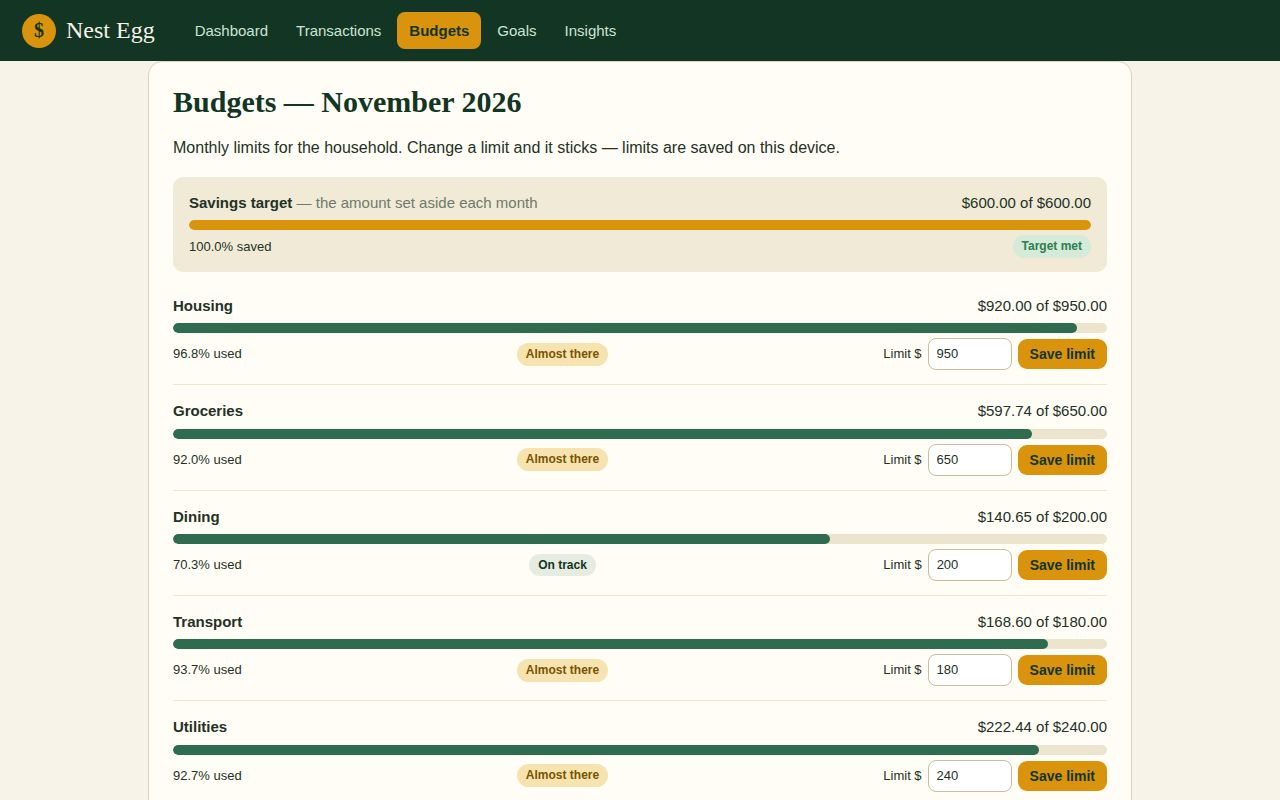
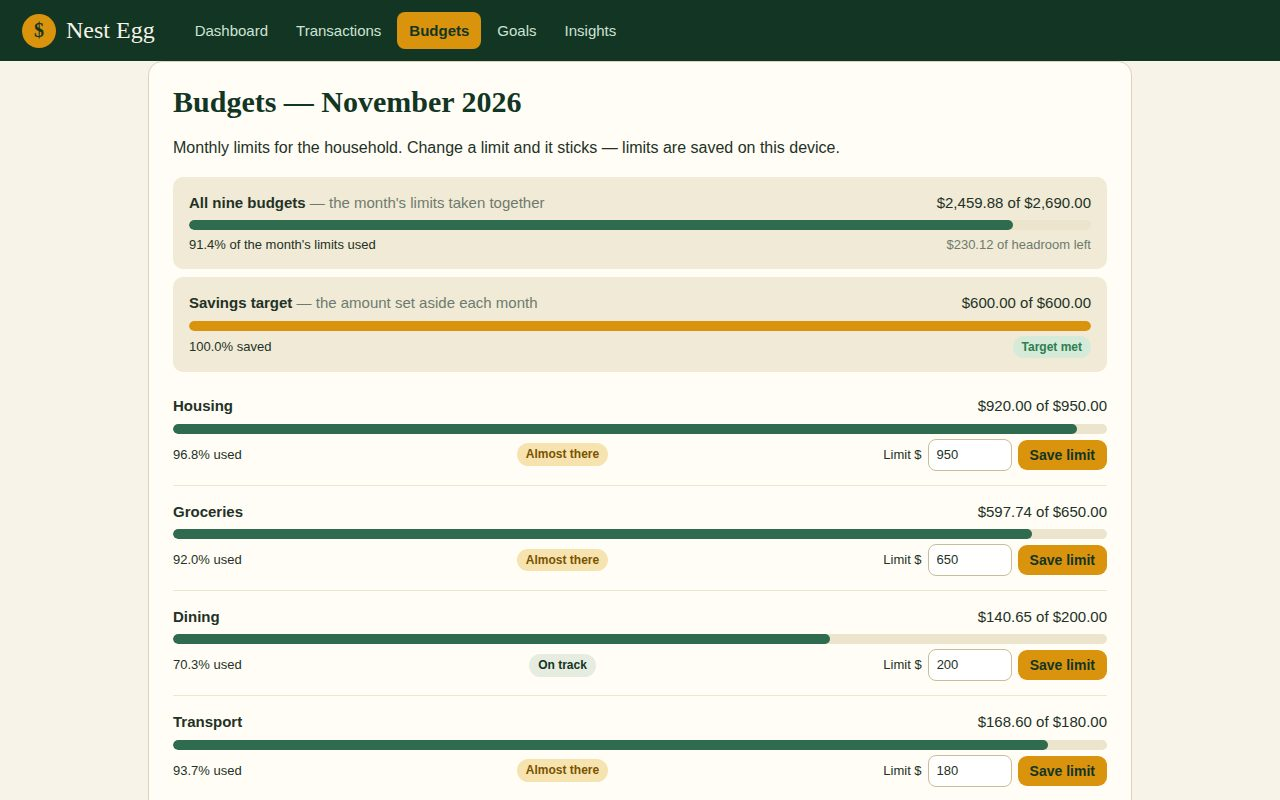
Nest Egg polish — month pace, weekly chart, goal finish dates
- Dashboard: month-pace strip (days left, safe-to-spend per day,
  flexible-spending pace vs plan, rent excluded so it never cries wolf)
  with a red/green cue when ahead of or behind pace
- Insights: weekly spending chart (Nov 1-7 / 8-14 / 15-21 / 22-30)
  with a data-driven caption; fixed monthBars viewBox clipping the
  '% vs October' sub-labels (240 -> 262)
- Goals: projected finish date per goal from its actual monthly
  saving pace (May 2027 / Jun 2027 / Nov 2027 on the demo data)
- Budgets: all-nine-budgets summary card (,459.88 of ,690.00)
- Fresh screenshots, 19/19 Playwright checks, main.ts byte-identical

Changed region(s): [[0.125, 0.5, 0.875, 1.0], [0.125, 0.25, 0.875, 0.4688]]

diff --git a/app/pages.js b/app/pages.js
@@ -44,6 +44,14 @@ function pageDashboard(state) {
   const recent = [...state.transactions]
     .sort((a, b) => (b.date + b.id).localeCompare(a.date + a.id)).slice(0, 5);
   const kindWord = { income: "Income", spending: "Spent", saving: "Saved" };
+  const pace = monthPace(state);
+  const paceWord = Math.abs(pace.pacePct) < 0.5 ? "right on pace"
+    : pace.pacePct > 0 ? `${pace.pacePct.toFixed(1)}% ahead of pace`
+    : `${Math.abs(pace.pacePct).toFixed(1)}% behind pace`;
+  const paceTone = pace.pacePct > 0.5 ? "pace-bad"
+    : pace.pacePct < -0.5 ? "pace-good" : "";
+  const daysWord = pace.daysLeft === 0 ? "November ends today"
+    : `${pace.daysLeft} day${pace.daysLeft === 1 ? "" : "s"} left in November`;
 
   return `
   <section class="hero">
@@ -51,6 +59,11 @@ function pageDashboard(state) {
     <h1>Left to spend <span id="hero-remaining">${money(totals.remaining)}</span></h1>
     <p class="hero-sub">Income ${money(totals.income)} − spending ${money(totals.spending)} − savings ${money(totals.saving)} — ${esc(heroNote)}</p>
     <p><a class="btn" href="#/transactions">Add a transaction</a> <a class="btn ghost" href="#/insights">See November in full</a></p>
+  </section>
+  <section class="pace" aria-label="How the month is pacing">
+    <div><span class="pace-label">Month</span><strong id="pace-days">${daysWord}</strong><span class="muted">Day ${pace.day} of ${pace.daysInMonth} · November 2026</span></div>
+    <div><span class="pace-label">Safe to spend</span><strong id="pace-safe">${money(pace.safePerDay)} a day</strong><span class="muted">from ${money(pace.remaining)} left</span></div>
+    <div><span class="pace-label">Pace</span><strong id="pace-word" class="${paceTone}">${paceWord}</strong><span class="muted">${money(pace.expected)} flexible spending expected by now — rent excluded</span></div>
   </section>
   <section class="cards">
     <div class="stat"><span class="stat-label">Income</span><strong id="stat-income">${money(totals.income)}</strong><span class="muted">5 paydays and extras</span></div>
@@ -168,10 +181,18 @@ function pageBudgets(state) {
   const rows = spendByCategory(state.transactions);
   const spentOf = (cat) => rows.find((r) => r.category === cat)?.cents || 0;
   const saved = sumKinds(state.transactions).saving;
+  const totalLimit = NEST_SEED.spendCategories
+    .reduce((sum, cat) => sum + (state.limits[cat] || 0), 0);
+  const totalSpent = rows.reduce((sum, r) => sum + r.cents, 0);
   return `
   <section class="panel">
     <h1>Budgets — ${esc(NEST_SEED.monthLabel)}</h1>
     <p>Monthly limits for the household. Change a limit and it sticks — limits are saved on this device.</p>
+    <div class="save-card">
+      <div class="snap-head"><span><b>All nine budgets</b> <span class="muted">— the month's limits taken together</span></span><span id="budgets-total">${money(totalSpent)} of ${money(totalLimit)}</span></div>
+      ${progressBar(100 * totalSpent / totalLimit, totalSpent > totalLimit ? "over" : "")}
+      <div class="snap-foot"><span>${pctOf(totalSpent, totalLimit)} of the month's limits used</span><span class="muted">${money(Math.max(0, totalLimit - totalSpent))} of headroom left</span></div>
+    </div>
     <div class="save-card">
       <div class="snap-head"><span><b>Savings target</b> <span class="muted">— the amount set aside each month</span></span><span>${money(saved)} of ${money(NEST_SEED.savingsTarget)}</span></div>
       ${progressBar(100 * saved / NEST_SEED.savingsTarget, "goal")}
@@ -199,16 +220,22 @@ function pageGoals(state) {
   <section class="panel">
     <h1>Savings goals</h1>
     <p>Every dollar has a job. Add funds to a goal and the ledger records it as a saving transaction automatically.</p>
-    ${state.goals.map((g) => `
+    ${state.goals.map((g) => {
+      const proj = goalProjection(g, state);
+      const projLine = proj.monthsLeft === 0 ? "Target reached — well done."
+        : proj.monthsLeft === null ? "Add funds to start the countdown."
+        : `About ${proj.monthsLeft} month${proj.monthsLeft === 1 ? "" : "s"} to go at the current pace (${money(proj.pace)} a month) — around ${proj.finishLabel}.`;
+      return `
       <div class="goal-card">
         <div class="snap-head"><span><b>${esc(g.name)}</b>${g.note ? ` <span class="muted">— ${esc(g.note)}</span>` : ""}</span><span id="goal-amt-${esc(g.id)}">${money(g.saved)} of ${money(g.target)}</span></div>
         ${progressBar(100 * g.saved / g.target, "goal")}
         <div class="snap-foot"><span>${pctOf(g.saved, g.target)} saved</span><span class="muted">${money(Math.max(0, g.target - g.saved))} to go</span></div>
+        <div class="goal-proj" id="goal-proj-${esc(g.id)}">${projLine}</div>
         <div class="fund-row">
           <label>Add funds ($) <input id="fund-${esc(g.id)}" type="number" min="1" step="1" placeholder="50"></label>
           <button class="btn small fund-add" data-goal="${esc(g.id)}">Add to ${esc(g.name)}</button>
         </div>
-      </div>`).join("")}
+      </div>`;}).join("")}
   </section>
   <section class="panel">
     <h2>Start a new goal</h2>
@@ -229,6 +256,11 @@ function pageInsights(state) {
   const rows = spendByCategory(state.transactions);
   const oct = NEST_SEED.october;
   const top = rows[0] || { category: "—", cents: 0 };
+  const weeks = weeklySpending(state.transactions);
+  const biggestWeek = weeks.reduce((a, b) => (b.cents > a.cents ? b : a), weeks[0]);
+  const weekNote = biggestWeek.label === "Nov 1–7"
+    ? `The biggest week was ${esc(biggestWeek.label)} at ${money(biggestWeek.cents)} — rent lands on the 1st, so the first week always runs hot. The other three weeks averaged ${money(Math.round((totals.spending - weeks[0].cents) / 3))} each.`
+    : `The biggest week was ${esc(biggestWeek.label)} at ${money(biggestWeek.cents)} — the other weeks averaged ${money(Math.round((totals.spending - biggestWeek.cents) / 3))} each.`;
   const over = NEST_SEED.spendCategories
     .map((cat) => ({ cat, spent: rows.find((r) => r.category === cat)?.cents || 0, limit: state.limits[cat] || 0 }))
     .filter((b) => b.spent > b.limit);
@@ -246,6 +278,11 @@ function pageInsights(state) {
     <h1>Insights — November vs October</h1>
     ${monthBars(totals, oct)}
     <p class="muted">Income ${changeLabel(totals.income, oct.income)} · spending ${changeLabel(totals.spending, oct.spending)} · savings ${changeLabel(totals.saving, oct.saving)} against October (${money(oct.income)} / ${money(oct.spending)} / ${money(oct.saving)}).</p>
+  </section>
+  <section class="panel">
+    <h2>Spending by week</h2>
+    ${weekBars(weeks)}
+    <p class="muted">${weekNote}</p>
   </section>
   <div class="two-col">
     <section class="panel">

diff --git a/app/money.js b/app/money.js
@@ -98,6 +98,102 @@ function nextTxId(state) {
   return "t" + String(n + 1).padStart(2, "0");
 }
 
+/* ---- Month pace, weekly spending and goal projections ---- */
+
+/* Days in a month, e.g. 30 for November 2026. */
+function daysInMonth(year, month) {
+  return new Date(year, month, 0).getDate();
+}
+
+/* The demo "today": the newest transaction date, clamped inside the
+   seed month so the figures always describe November 2026 — even after
+   the household adds a transaction dated in December, the pace strip
+   keeps answering for the month the ledger is about. */
+function demoToday(state) {
+  const parts = NEST_SEED.month.split("-").map(Number);
+  const year = parts[0];
+  const month = parts[1];
+  const last = daysInMonth(year, month);
+  let latest = 1;
+  for (const tx of state.transactions) {
+    const day = parseInt((tx.date || "").slice(8, 10), 10);
+    if (Number.isFinite(day)) latest = Math.max(latest, day);
+  }
+  const day = Math.min(Math.max(latest, 1), last);
+  return { year, month, day, daysInMonth: last, daysLeft: last - day };
+}
+
+/* How November is pacing: what is safe to spend each remaining day,
+   and whether the flexible spending is ahead of or behind the plan
+   for this point in the month. Categories whose money lands as one
+   lump at the start of the month (rent, on the 1st) are left out of
+   the pace comparison: judging them against an evenly-spread plan
+   would always cry wolf in week one. */
+const PACE_FIXED = ["Housing"];
+
+function monthPace(state) {
+  const totals = sumKinds(state.transactions);
+  const today = demoToday(state);
+  const flexCats = NEST_SEED.spendCategories.filter((c) => !PACE_FIXED.includes(c));
+  const flexLimit = flexCats
+    .reduce((sum, cat) => sum + (state.limits[cat] || 0), 0);
+  const flexSpent = state.transactions
+    .filter((tx) => tx.kind === "spending" && flexCats.includes(tx.category))
+    .reduce((sum, tx) => sum + tx.cents, 0);
+  const safePerDay = today.daysLeft > 0
+    ? Math.floor(totals.remaining / today.daysLeft)
+    : totals.remaining;
+  const expected = Math.round(flexLimit * today.day / today.daysInMonth);
+  const pacePct = expected > 0
+    ? 100 * (flexSpent - expected) / expected
+    : 0;
+  return {
+    day: today.day,
+    daysInMonth: today.daysInMonth,
+    daysLeft: today.daysLeft,
+    remaining: totals.remaining,
+    flexLimit,
+    flexSpent,
+    safePerDay,
+    expected,
+    pacePct,
+  };
+}
+
+/* Spending grouped by week of the month: Nov 1–7, 8–14, 15–21, 22–30. */
+function weeklySpending(list) {
+  const weeks = [
+    { label: "Nov 1–7", from: 1, to: 7, cents: 0 },
+    { label: "Nov 8–14", from: 8, to: 14, cents: 0 },
+    { label: "Nov 15–21", from: 15, to: 21, cents: 0 },
+    { label: "Nov 22–30", from: 22, to: 31, cents: 0 },
+  ];
+  for (const tx of list) {
+    if (tx.kind !== "spending") continue;
+    const day = parseInt((tx.date || "").slice(8, 10), 10);
+    const week = weeks.find((w) => day >= w.from && day <= w.to);
+    if (week) week.cents += tx.cents;
+  }
+  return weeks;
+}
+
+/* When a goal finishes at its current saving pace: the pace is what
+   the household actually put into that goal this month, so the date
+   moves when the household saves more — or stalls when it stops. */
+function goalProjection(goal, state) {
+  const pace = state.transactions
+    .filter((tx) => tx.kind === "saving" && tx.category === goal.name)
+    .reduce((sum, tx) => sum + tx.cents, 0);
+  const left = Math.max(0, goal.target - goal.saved);
+  if (left === 0) return { pace, monthsLeft: 0, finishLabel: "Target reached" };
+  if (pace <= 0) return { pace, monthsLeft: null, finishLabel: "" };
+  const monthsLeft = Math.ceil(left / pace);
+  const parts = NEST_SEED.month.split("-").map(Number);
+  const finish = new Date(parts[0], parts[1] - 1 + monthsLeft, 1);
+  const finishLabel = finish.toLocaleDateString("en-US", { month: "short", year: "numeric" });
+  return { pace, monthsLeft, finishLabel };
+}
+
 /* Add a transaction. A saving entry whose category names a goal also
    tops that goal up, so the goals page and the ledger always agree. */
 function addTransaction(state, tx) {

diff --git a/app/draw.js b/app/draw.js
@@ -44,7 +44,9 @@ function donutChart(rows, total) {
     `<ul class="legend">${legend}</ul></div>`;
 }
 
-/* Grouped bars comparing November with October for three measures. */
+/* Grouped bars comparing November with October for three measures.
+   The viewBox is taller than the drawing so the "% vs October" line
+   under each group is never clipped — it sits at y 242. */
 function monthBars(nov, oct) {
   const groups = [
     { label: "Income", now: nov.income, before: oct.income },
@@ -52,7 +54,7 @@ function monthBars(nov, oct) {
     { label: "Savings", now: nov.saving, before: oct.saving },
   ];
   const top = Math.max(...groups.flatMap((g) => [g.now, g.before]));
-  const W = 560, H = 240, base = 200, gap = 46;
+  const W = 560, H = 262, base = 200, gap = 46;
   const slot = (W - gap) / 3;
   const barW = 52;
   let bars = "";
@@ -70,4 +72,24 @@ function monthBars(nov, oct) {
   return `<svg viewBox="0 0 ${W} ${H}" class="bars" role="img" aria-label="November compared with October">` +
     `<line x1="0" y1="${base}" x2="${W}" y2="${base}" stroke="#d8cfb6" />${bars}${labels}</svg>` +
     `<p class="chart-key"><span class="key-dot now"></span> November &nbsp; <span class="key-dot before"></span> October</p>`;
+}
+
+/* Vertical bars for the four weeks of November, in the same visual
+   language as monthBars: pine bars, the amount on top, the week below. */
+function weekBars(weeks) {
+  const top = Math.max(...weeks.map((w) => w.cents), 1);
+  const W = 560, H = 230, base = 180, gap = 40;
+  const slot = (W - gap) / 4;
+  const barW = 64;
+  let bars = "";
+  let labels = "";
+  weeks.forEach((w, i) => {
+    const x0 = gap / 2 + i * slot;
+    const h = Math.max(Math.round(140 * w.cents / top), 2);
+    bars += `<rect x="${x0}" y="${base - h}" width="${barW}" height="${h}" rx="4" fill="#1e4d3a" />` +
+      `<text x="${x0 + barW / 2}" y="${base - h - 8}" text-anchor="middle" class="bar-val">${money(w.cents)}</text>`;
+    labels += `<text x="${x0 + barW / 2}" y="${base + 22}" text-anchor="middle" class="bar-lab">${w.label}</text>`;
+  });
+  return `<svg viewBox="0 0 ${W} ${H}" class="bars" role="img" aria-label="Spending by week in November">` +
+    `<line x1="0" y1="${base}" x2="${W}" y2="${base}" stroke="#d8cfb6" />${bars}${labels}</svg>`;
 }

diff --git a/app/style.css b/app/style.css
@@ -102,6 +102,29 @@ h2 { font-size: 22px; }
 .btn.small { padding: 7px 12px; font-size: 14px; }
 .btn.danger { background: var(--red); color: #fff; }
 
+/* Month pace strip */
+.pace {
+  display: grid;
+  grid-template-columns: repeat(3, 1fr);
+  gap: 14px;
+  margin-bottom: 22px;
+}
+.pace > div {
+  background: var(--card);
+  border: 1px solid var(--line);
+  border-top: 3px solid var(--amber);
+  border-radius: 12px;
+  padding: 14px 18px;
+}
+.pace-label { display: block; font-size: 12px; text-transform: uppercase; letter-spacing: 0.08em; color: var(--muted); }
+.pace strong { display: block; font-family: var(--serif); font-size: 21px; color: var(--pine-dark); margin: 4px 0 2px; }
+.pace strong.pace-bad { color: var(--red); }
+.pace strong.pace-good { color: var(--green); }
+.pace .muted { font-size: 13px; }
+
+/* Goal projection line */
+.goal-proj { font-size: 13px; color: var(--muted); margin-top: 6px; }
+
 /* Stat cards */
 .cards {
   display: grid;
@@ -240,6 +263,7 @@ input, select {
 @media (max-width: 720px) {
   .hero h1 { font-size: 30px; }
   .cards { grid-template-columns: 1fr 1fr; }
+  .pace { grid-template-columns: 1fr; }
   .two-col { grid-template-columns: 1fr; }
   .form-grid { grid-template-columns: 1fr; }
   .topbar { gap: 10px; padding: 10px 14px; }

diff --git a/README.md b/README.md
@@ -4,7 +4,7 @@
 [![rank](https://make.fun/badge/best-household-budget-site-20261126-1457/mytlyy0745/best-household-budget-site-20261126/rank.svg)](https://make.fun/bounty/best-household-budget-site-20261126-1457/leaderboard?utm_source=github&utm_medium=readme&utm_campaign=best-household-budget-site-20261126-1457)
 [![reward](https://make.fun/badge/best-household-budget-site-20261126-1457/mytlyy0745/best-household-budget-site-20261126/reward.svg)](https://make.fun/bounty/best-household-budget-site-20261126-1457?utm_source=github&utm_medium=readme&utm_campaign=best-household-budget-site-20261126-1457)
 
-Nest Egg is a household budget site for one family keeping its money straight. The dashboard shows what is left to spend in November 2026, with income, spending and savings at a glance and a donut of where the spending went. Transactions can be added, filtered and deleted; nine monthly budgets show progress and can have their limits changed; three savings goals track progress and take top-ups; Insights compares November with October, ranks the biggest spending, and turns the household's own numbers into plain-language tips. Everything is static files — no build step, no network requests, no account — and changes are saved in the browser's local storage, with a one-click reset back to the demo month.
+Nest Egg is a household budget site for one family keeping its money straight. The dashboard shows what is left to spend in November 2026, with income, spending and savings at a glance, a donut of where the spending went, and a month-pace strip: days left in the month, what is safe to spend each remaining day, and whether the flexible spending is ahead of or behind the plan (rent, which lands as one lump on the 1st, is left out of the pace so it never cries wolf). Transactions can be added, filtered and deleted; nine monthly budgets show progress and can have their limits changed, with an all-budgets total at the top; three savings goals track progress and take top-ups, each with a projected finish date worked out from what the household actually saves into it each month; Insights compares November with October, charts spending by week, ranks the biggest spending, and turns the household's own numbers into plain-language tips. Everything is static files — no build step, no network requests, no account — and changes are saved in the browser's local storage, with a one-click reset back to the demo month.
 
 ## Run it
 
